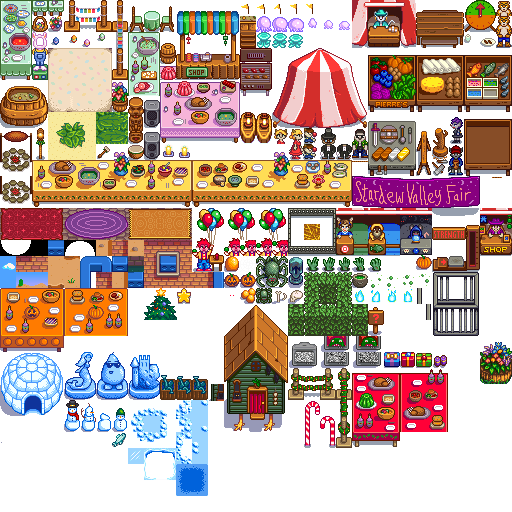
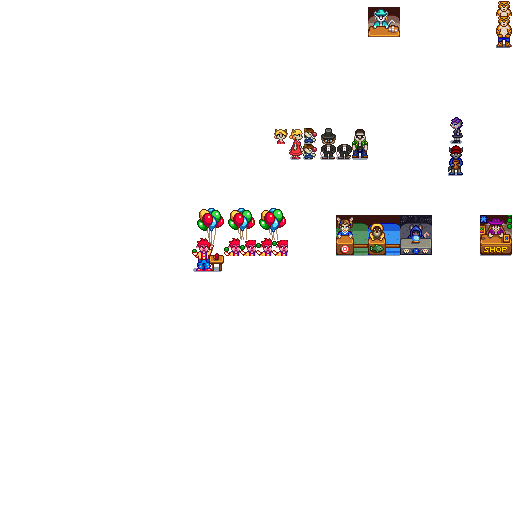
remove unaltered parts of images

diff --git a/CHANGELOG.md b/CHANGELOG.md
@@ -1,6 +1,7 @@
 ## 5.22.0
 
 - Feature: Remove redundant multi-language versions (they inherit the changes)
+- Feature: Remove unaltered parts of images
 - Feature: Get rid of the "libpng warning: iCCP: known incorrect sRGB profile"
 - Chore: Split content.json into multiple files
 
